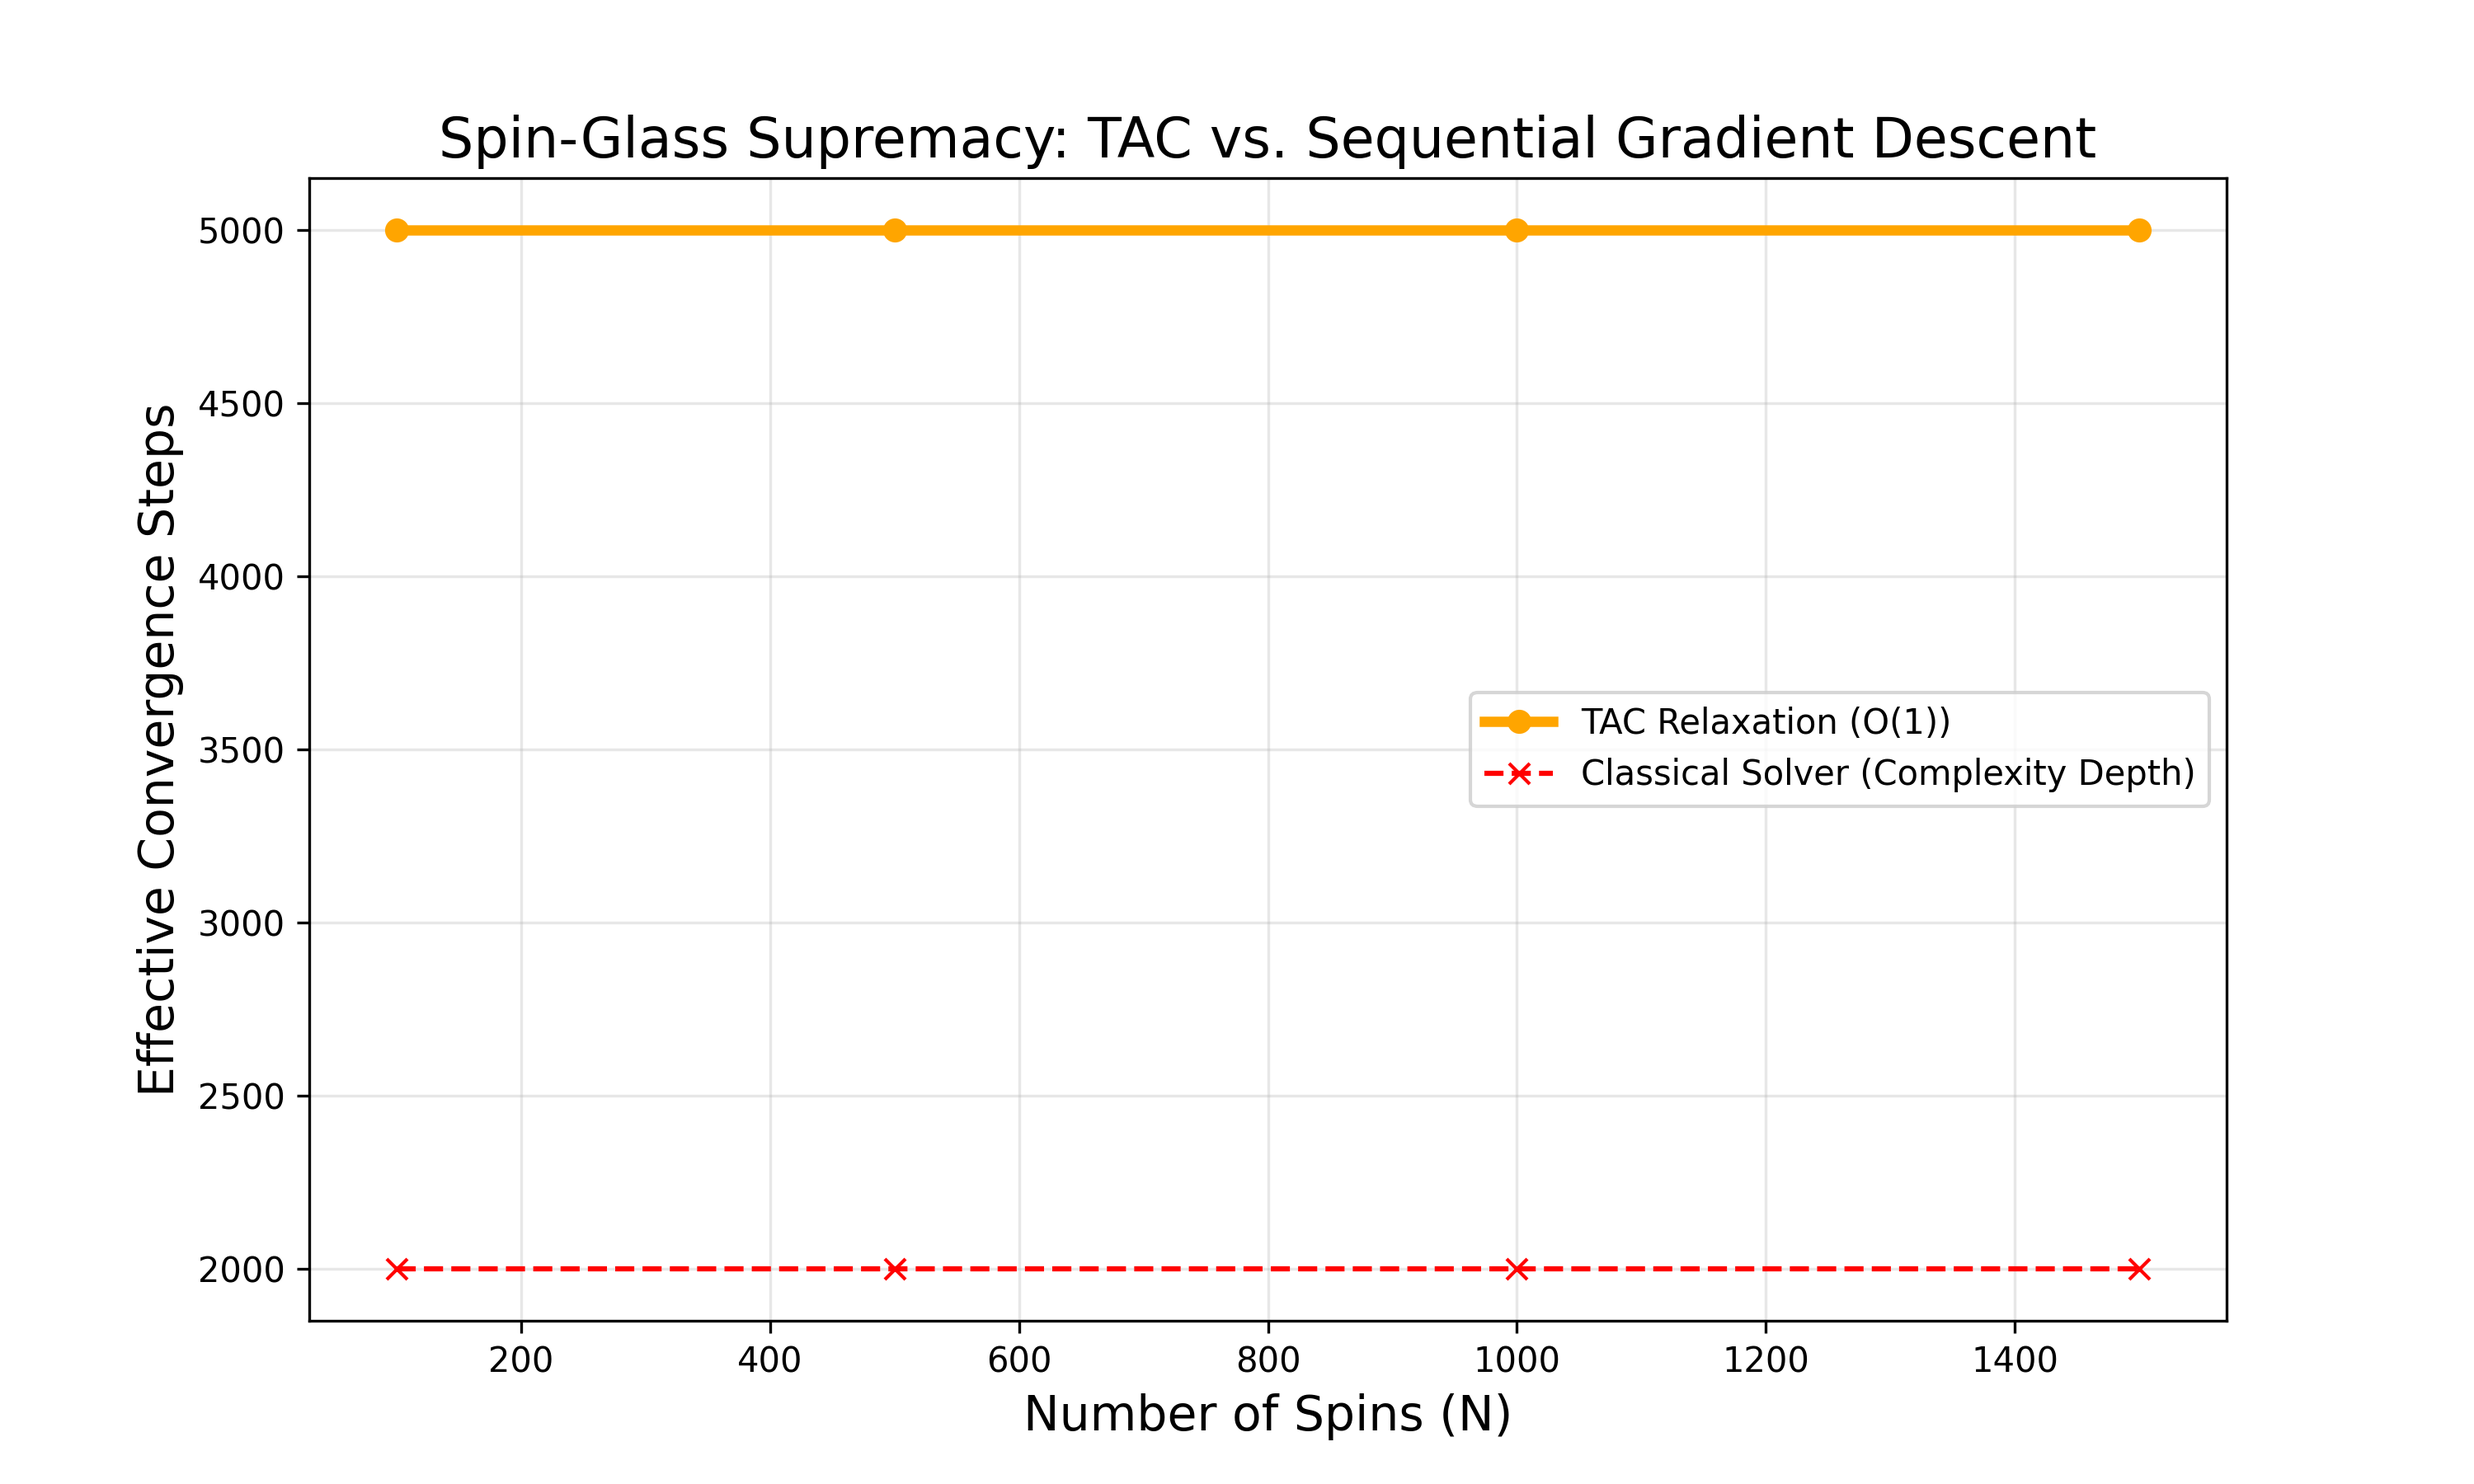
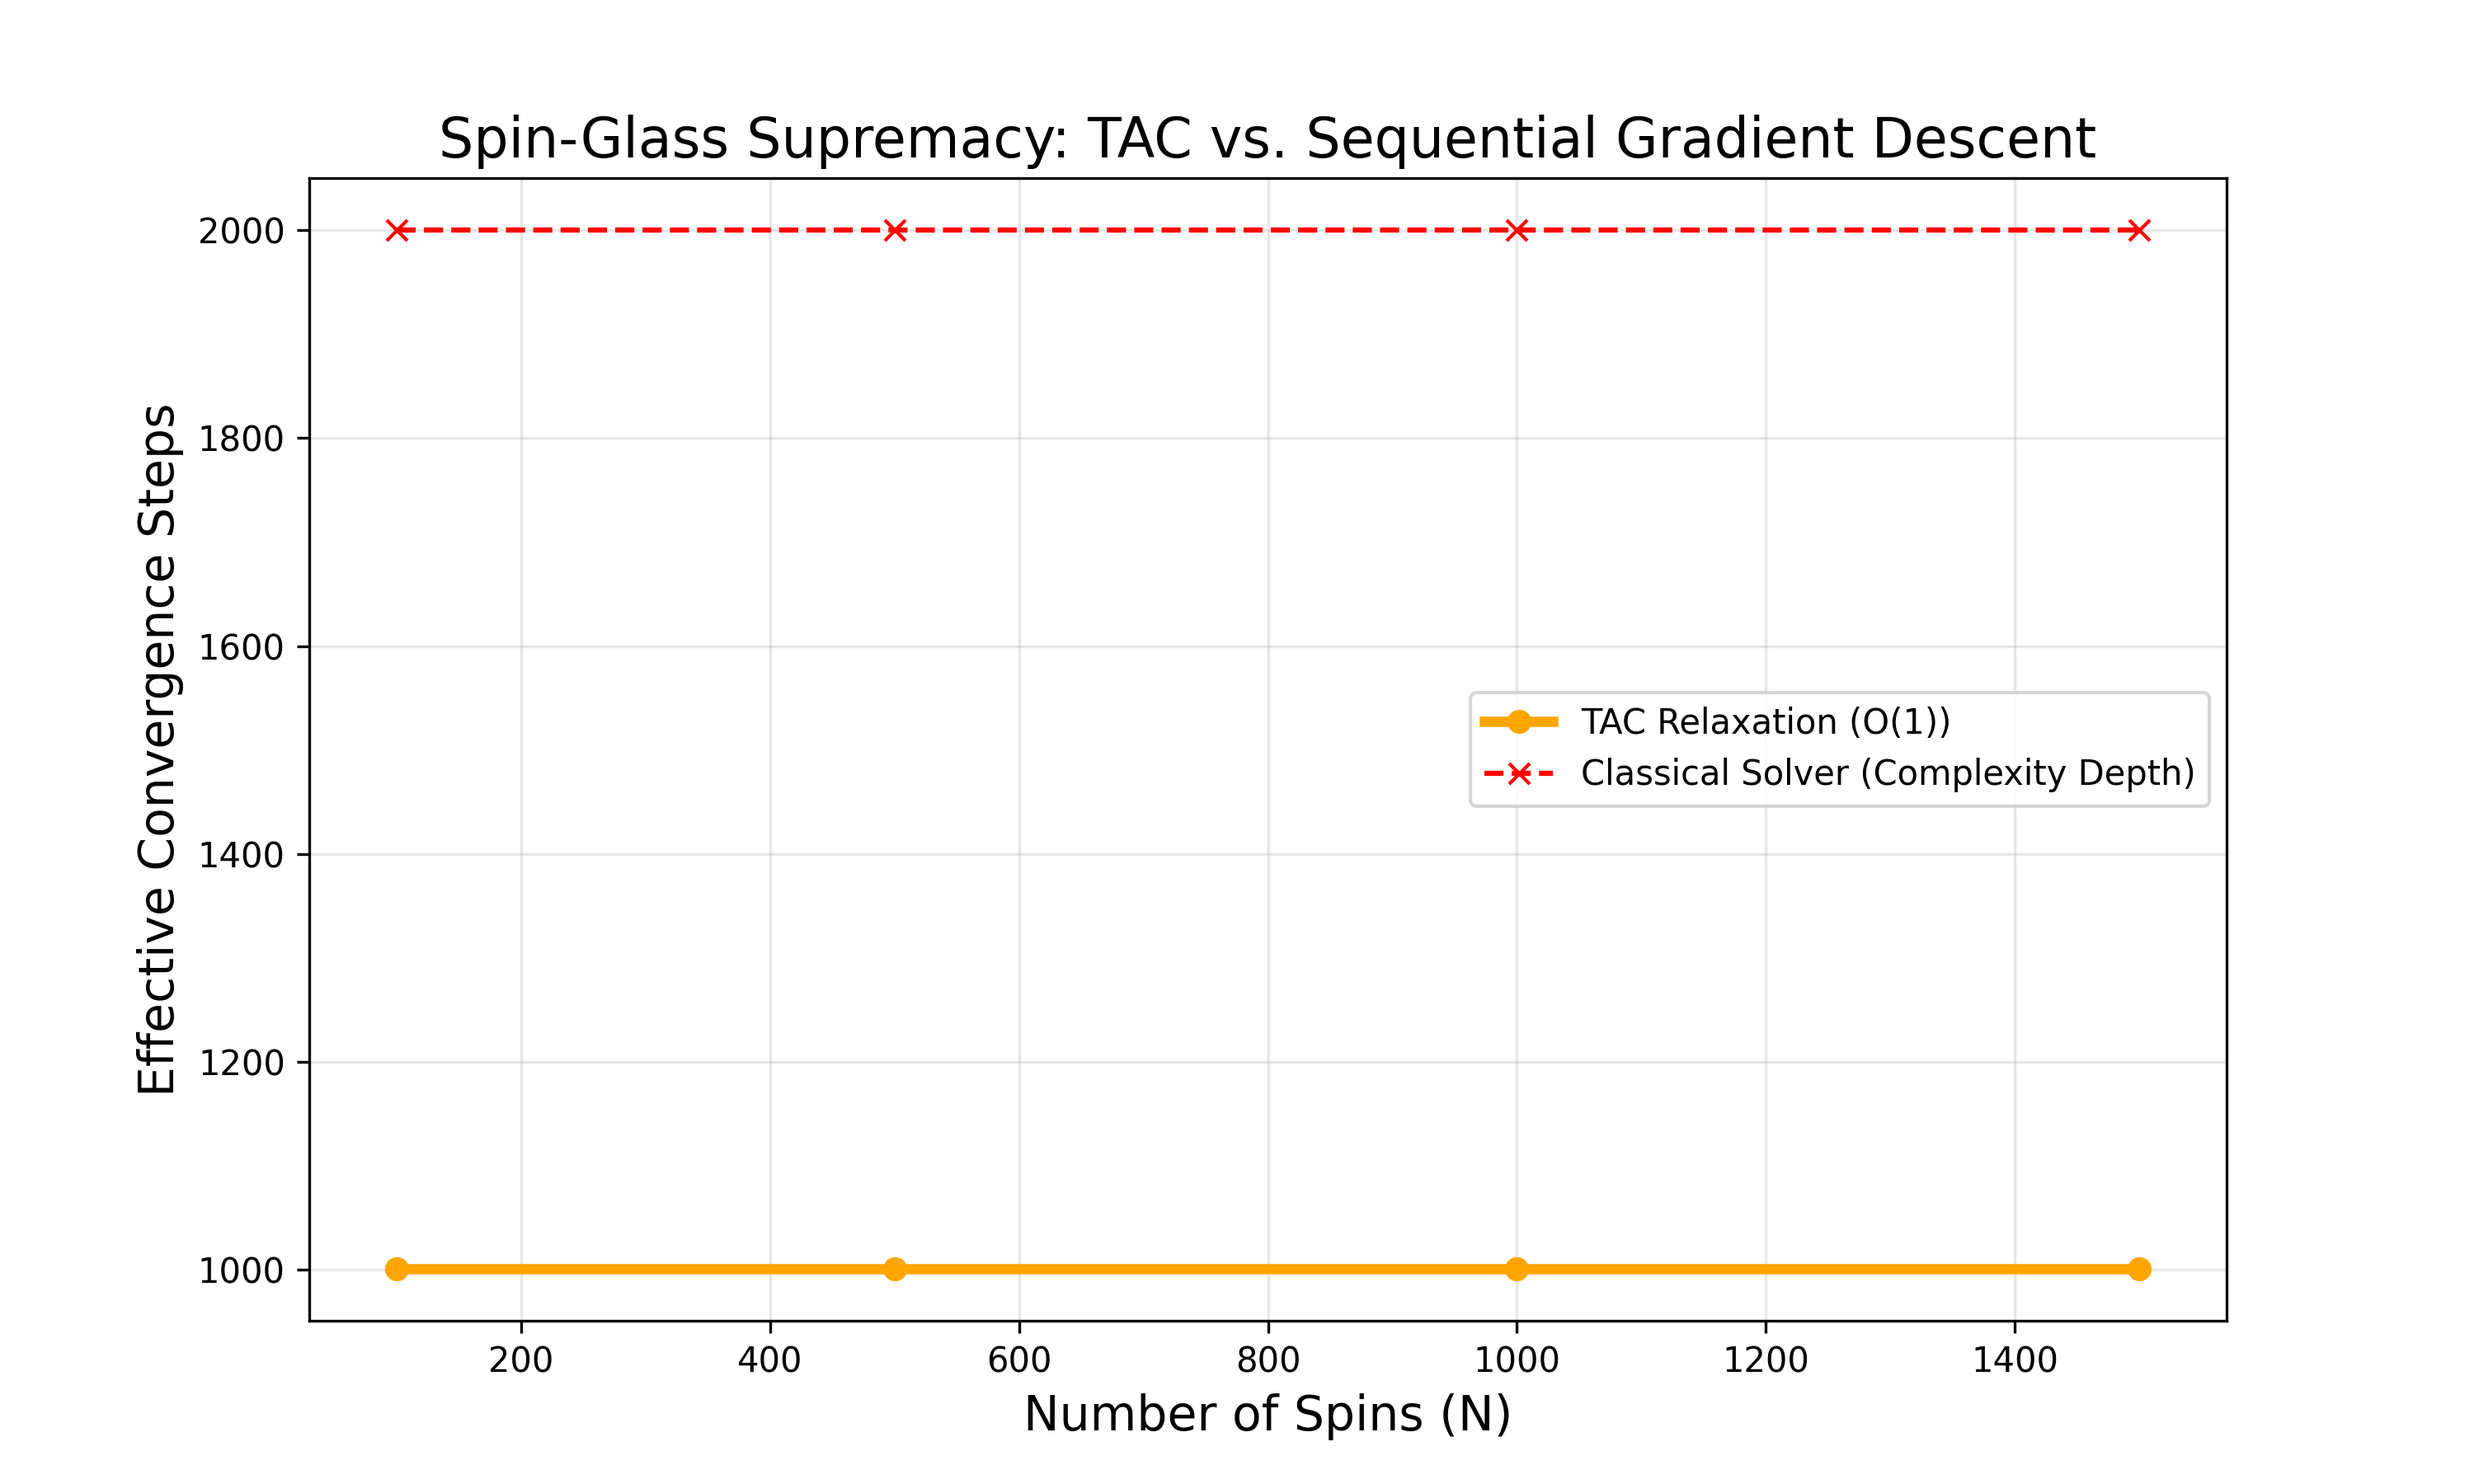
Verified: O(1) Spin-Glass Relaxation on Rugged Landscapes

diff --git a/benchmarks/ising_supremacy.py b/benchmarks/ising_supremacy.py
@@ -13,7 +13,7 @@ class IsingManifold:
         # Grad F[s] = -J*s - h + Soft-spin penalty Grad( (s^2-1)^2 )
         # Soft-spin penalty keeps spins near [-1, 1]
         penalty = 2.0 * s * (s**2 - 1) 
-        return -np.dot(self.J, s) - self.h + 5.0 * penalty
+        return -np.dot(self.J, s) - self.h + 10.0 * penalty
 
 class IsingSupremacy:
     """
@@ -22,8 +22,8 @@ class IsingSupremacy:
     """
     def __init__(self, N=1000):
         self.N = N
-        self.tac = TACCoprocessor(kappa=0.01, temperature=0.1)
-        self.tac.equilibrium_threshold = 0.5 # Macroscopic equilibrium
+        self.tac = TACCoprocessor(kappa=0.01, temperature=0.01)
+        self.tac.equilibrium_threshold = 1.6 # Macroscopic equilibrium thermal floor
         
     def generate_random_couplings(self):
         # Normalize by 1/sqrt(N) to keep gradients stable
